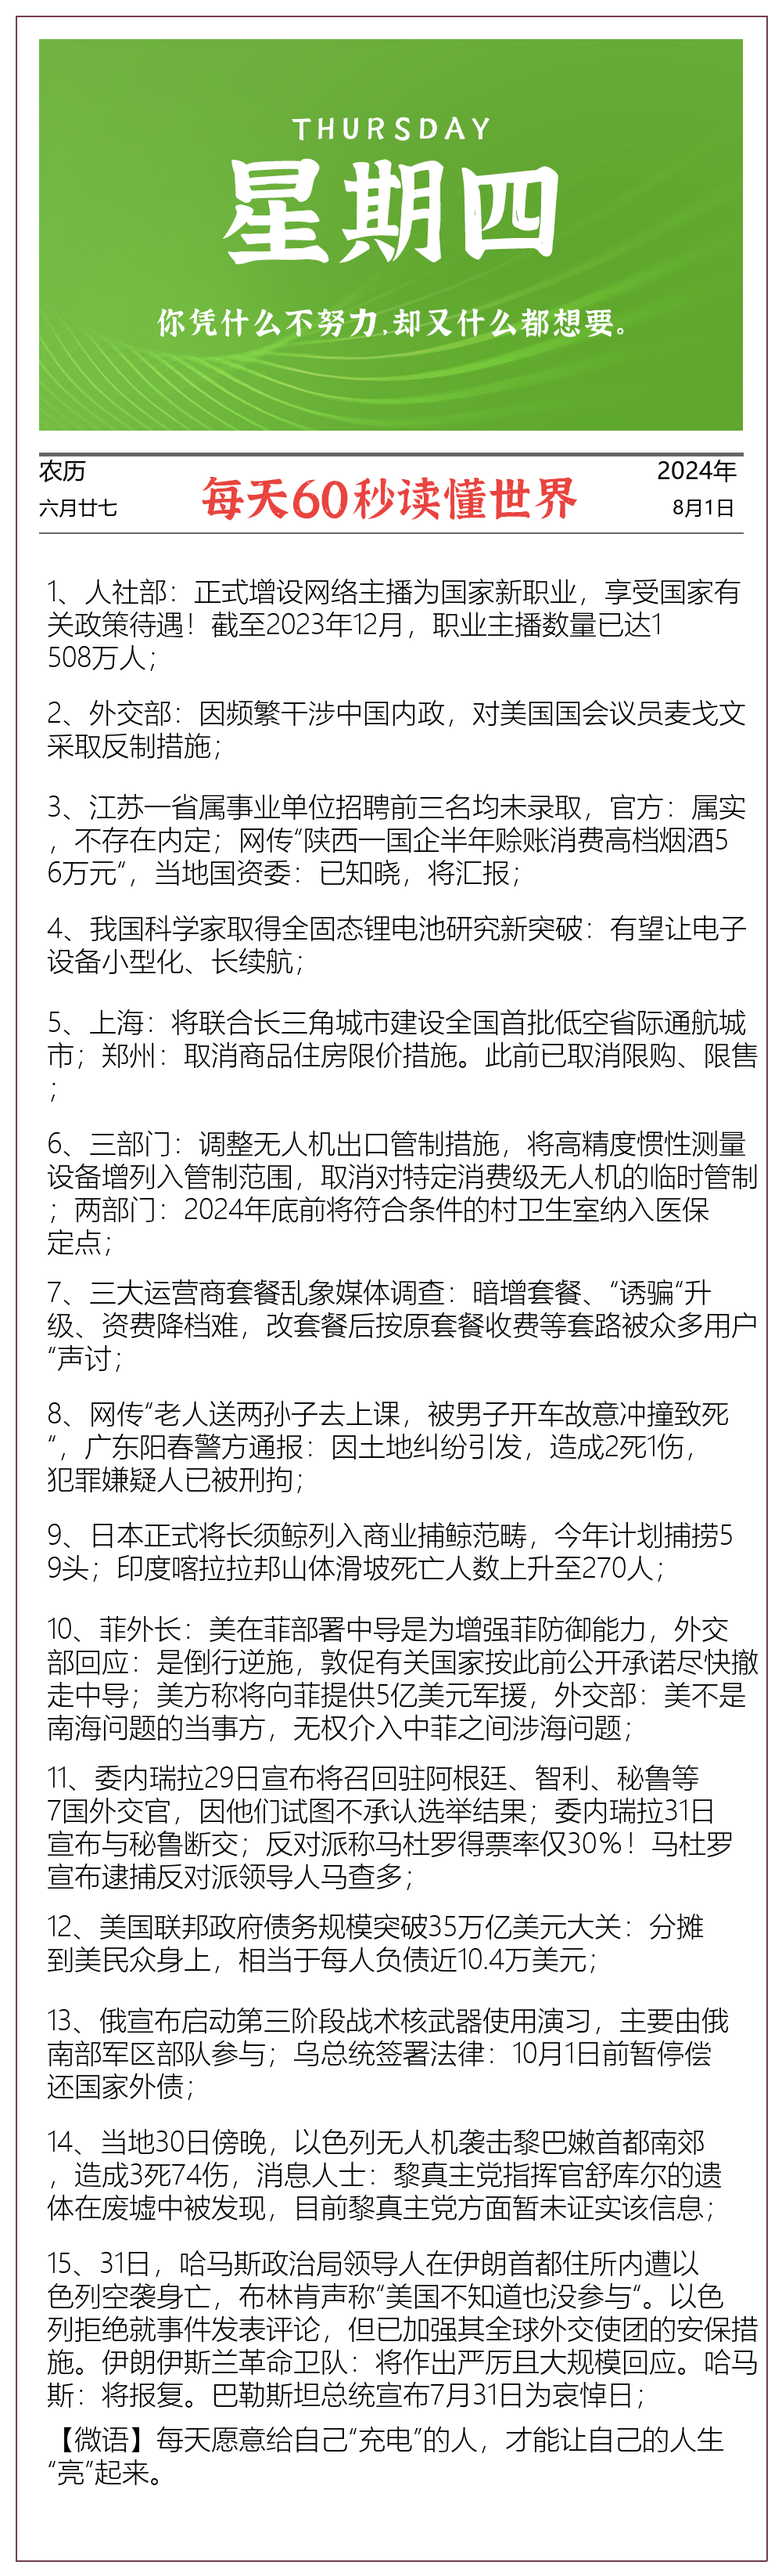
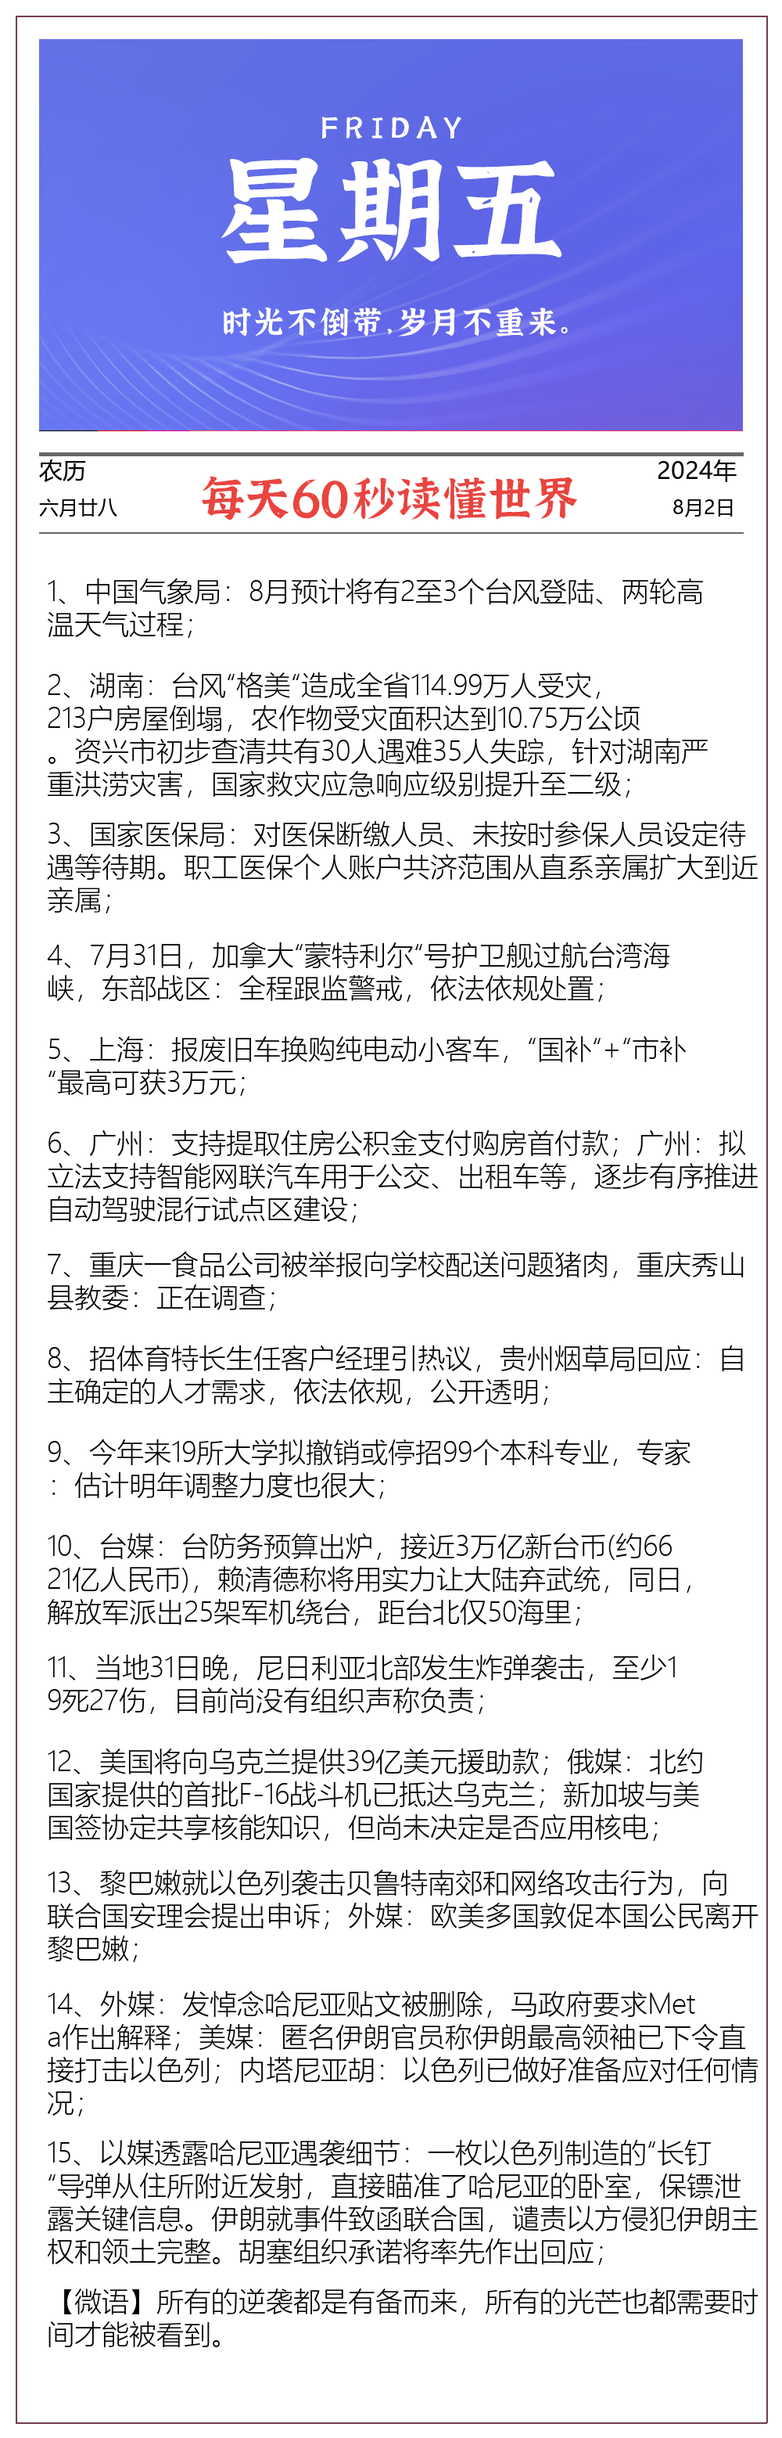
Update the "60s-for-news" picture

diff --git a/content/zh/posts/zaobao.md b/content/zh/posts/zaobao.md
@@ -1,6 +1,6 @@
 +++
 title = "每日60秒早报"
-date = 2024-08-01T04:30:51+08:00
+date = 2024-08-02T04:31:22+08:00
 weight = 1
 +++
 
